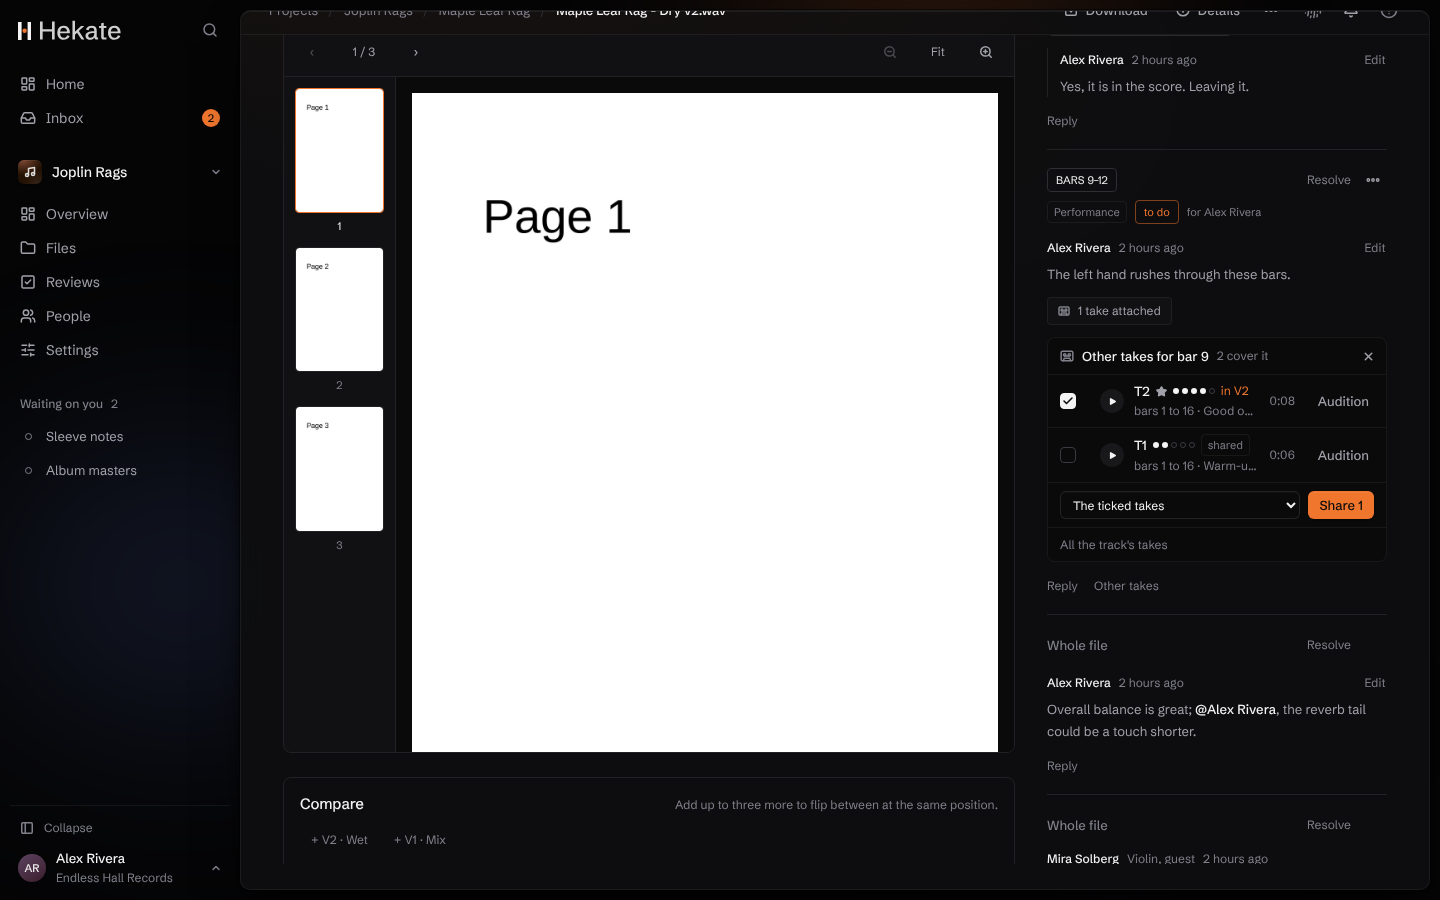
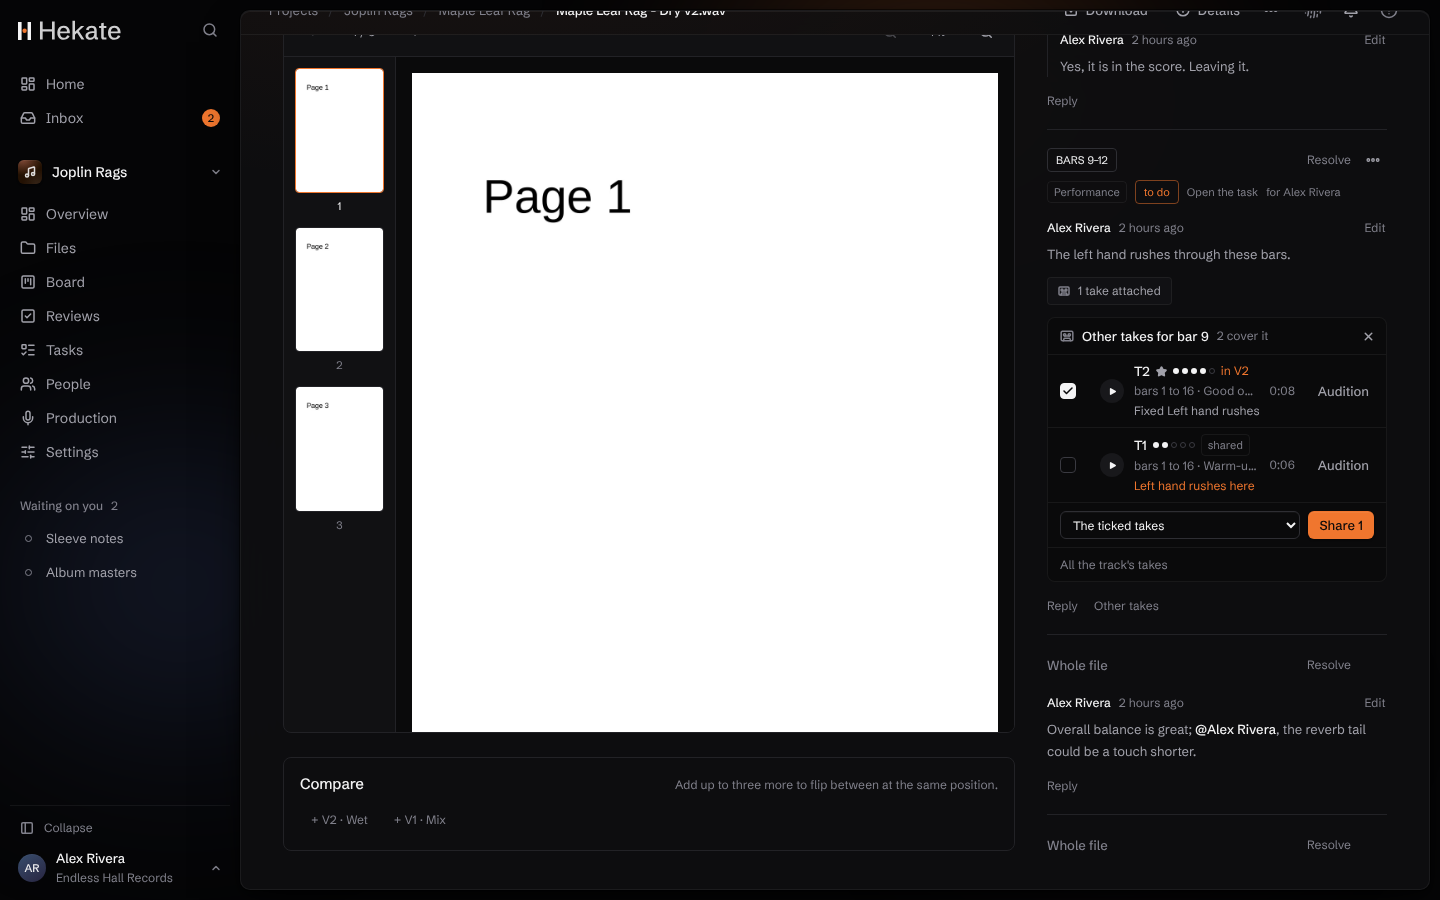
feat(web): the takes for a bar say which the score marks fixed it with, and where it went wrong (#52) (#375)
* feat(web): the takes for a bar say which the score marks fixed it with, and where it went wrong (#52)

Claude-Session: https://claude.ai/code/session_017vaSqC7EeCsBSrR21gRgK1

* fix(server): the takes for a bar follow the score marks for those who see them (#52)

The API's ?bar= answer now matches the web app's for roles with
view_production, and the other-takes panel waits for the marks before
ordering the takes.

Claude-Session: https://claude.ai/code/session_017vaSqC7EeCsBSrR21gRgK1

---------

diff --git a/apps/web/src/components/takes.tsx b/apps/web/src/components/takes.tsx
@@ -9,13 +9,15 @@ import {
   edlRates,
   formatDuration,
   gapsLabel,
+  marksAtBar,
   parseClock,
   type SharedTake,
   TAKE_RATING_MAX,
+  type TakeAtBar,
   type TakeChange,
   type TakeRow,
   takeProblem,
-  takesCovering,
+  takesForBar,
 } from "@hekate/shared";
 import { useQuery } from "@tanstack/react-query";
 import { Link } from "@tanstack/react-router";
@@ -33,6 +35,7 @@ import { formatLoop } from "~/lib/loop";
 import {
   editDecisionsQuery,
   projectSessionsQuery,
+  scoreMarksQuery,
   type Track,
   trackTakesQuery,
   useProjectCan,
@@ -94,6 +97,12 @@ export function TakeManager({ track }: { track: Track }) {
   // Adding takes uploads their files first, which needs the project's upload permission too.
   const canAdd = canEdit && can("upload");
   const { data: takes, error } = useQuery(trackTakesQuery(track.id));
+  // What the score marks say of each take at a bar (#52): which fixed it, which went wrong.
+  const { data: marking } = useQuery({
+    ...scoreMarksQuery(track.id),
+    enabled: can("view_production"),
+    retry: false,
+  });
   const { add, change, remove } = useTakeMutations(track.id);
   const [filter, setFilter] = useState<"all" | "best" | "used">("all");
   const [bar, setBar] = useState("");
@@ -162,7 +171,7 @@ export function TakeManager({ track }: { track: Track }) {
   const wanted = Number.parseInt(bar, 10);
   const asked = bar.trim() !== "" && Number.isInteger(wanted) && wanted >= 0;
   const ordered = asked
-    ? takesCovering(takes, wanted)
+    ? takesForBar(takes, wanted, marksAtBar(marking?.marks ?? [], wanted))
     : [...takes].sort(
         (a, b) =>
           (a.barFrom ?? Number.POSITIVE_INFINITY) - (b.barFrom ?? Number.POSITIVE_INFINITY) ||
@@ -813,7 +822,15 @@ export function OtherTakes({
   const { data: takes, error } = useQuery(trackTakesQuery(trackId));
   // Which of them the latest version's edit decision list uses here (#56).
   const { data: decisions } = useQuery(editDecisionsQuery(trackId));
-  const list = takes ? takesCovering(takes, bar) : [];
+  // What the producer's score marks say of them at this bar (#52): a role that does not see
+  // the production tools is refused them, and sees the takes without. The order waits for
+  // them, so rows do not move once they arrive.
+  const { data: marking, isPending: marksPending } = useQuery({
+    ...scoreMarksQuery(trackId),
+    retry: false,
+  });
+  const notes = marksAtBar(marking?.marks ?? [], bar);
+  const list = takes ? takesForBar(takes, bar, notes) : [];
   const [mode, setMode] = useState<"ticked" | "all" | "except">("ticked");
   /** The take being auditioned, to say so and to press its button. */
   const [auditioning, setAuditioning] = useState<string | null>(null);
@@ -853,7 +870,9 @@ export function OtherTakes({
       <div className="flex items-center gap-2 border-b border-line py-1 pr-1 pl-3">
         <Icon name="take" size={14} className="text-ink-3" />
         <span className="text-[13px] font-medium text-ink">Other takes for bar {bar}</span>
-        {takes && <span className="text-[12px] text-ink-3">{list.length} cover it</span>}
+        {takes && !marksPending && (
+          <span className="text-[12px] text-ink-3">{list.length} cover it</span>
+        )}
         <Button
           variant="ghost"
           size="iconSm"
@@ -866,7 +885,7 @@ export function OtherTakes({
       </div>
       {error ? (
         <p className="m-0 px-3 py-2 text-[13px] text-signal">{error.message}</p>
-      ) : !takes ? (
+      ) : !takes || marksPending ? (
         <p className="m-0 px-3 py-2 text-[13px] text-ink-3">Loading</p>
       ) : list.length === 0 ? (
         <p className="m-0 px-3 py-2 text-[13px] text-ink-3">
@@ -901,6 +920,7 @@ export function OtherTakes({
                       take={t}
                       shared={share?.shared.includes(t.id)}
                       usedIn={usedAtBar(decisions, t.id, bar)}
+                      note={notes.get(t.number)}
                     />
                   </Link>
                 ) : (
@@ -909,6 +929,7 @@ export function OtherTakes({
                       take={t}
                       shared={share?.shared.includes(t.id)}
                       usedIn={usedAtBar(decisions, t.id, bar)}
+                      note={notes.get(t.number)}
                     />
                   </span>
                 )}
@@ -991,11 +1012,14 @@ function OtherTake({
   take,
   shared = false,
   usedIn = null,
+  note,
 }: {
   take: SharedTake;
   shared?: boolean;
   /** The version whose edit decision list uses it at this bar ("V2"), or null (#56). */
   usedIn?: string | null;
+  /** What the score marks say of it at this bar (#52). */
+  note?: TakeAtBar;
 }) {
   return (
     <>
@@ -1021,6 +1045,19 @@ function OtherTake({
         <span className="block truncate text-[12px] text-ink-3">
           {[barsLabel(take), take.label, take.notes].filter(Boolean).join(" · ")}
         </span>
+        {note && (note.fixed.length > 0 || note.troubled.length > 0) && (
+          <span className="block truncate text-[12px]">
+            {note.fixed.length > 0 && (
+              <span className="text-ink-2">Fixed {note.fixed.join(", ")}</span>
+            )}
+            {note.fixed.length > 0 && note.troubled.length > 0 && (
+              <span className="text-ink-3"> · </span>
+            )}
+            {note.troubled.length > 0 && (
+              <span className="text-signal">{note.troubled.join(", ")} here</span>
+            )}
+          </span>
+        )}
       </span>
       {take.file?.duration != null && (
         <span className="tabular text-[12px] text-ink-3">{formatDuration(take.file.duration)}</span>

diff --git a/packages/shared/src/score-marks.ts b/packages/shared/src/score-marks.ts
@@ -294,3 +294,66 @@ export function typedNumber(typed: string, take = false): number | null | undefi
   if (n === undefined) return undefined;
   return take && Number(n) < 1 ? undefined : Number(n);
 }
+
+/** What the score marks say of a take at one bar (#52, #46): what it fixed, what went wrong. */
+export interface TakeAtBar {
+  fixed: string[];
+  troubled: string[];
+}
+
+/**
+ * The issues marked at a bar, by take: the takes that fixed one ("take 7 fixed bar 72") and
+ * those it occurred in. An issue covers its bars, or the one bar it was marked at.
+ */
+export function marksAtBar(
+  marks: Pick<ScoreMark, "kind" | "barFrom" | "barTo" | "takes" | "fixedBy" | "text">[],
+  bar: number,
+): Map<number, TakeAtBar> {
+  const notes = new Map<number, TakeAtBar>();
+  const of = (take: number) => {
+    let note = notes.get(take);
+    if (!note) {
+      note = { fixed: [], troubled: [] };
+      notes.set(take, note);
+    }
+    return note;
+  };
+  for (const m of marks) {
+    if (m.kind !== "issue" || m.barFrom == null) continue;
+    if (bar < m.barFrom || bar > (m.barTo ?? m.barFrom)) continue;
+    const what = m.text || "an issue";
+    if (m.fixedBy != null) of(m.fixedBy).fixed.push(what);
+    for (const take of m.takes) if (take !== m.fixedBy) of(take).troubled.push(what);
+  }
+  return notes;
+}
+
+/**
+ * The takes to offer for a bar: those whose bars cover it, and those the score marks say fixed
+ * it, whatever bars they were given. Takes that fixed it come first, then starred, then by
+ * rating, then in order.
+ */
+export function takesForBar<
+  T extends {
+    number: number;
+    starred: boolean;
+    rating: number;
+    barFrom: number | null;
+    barTo: number | null;
+  },
+>(all: T[], bar: number, notes: Map<number, TakeAtBar>): T[] {
+  const covering = (t: T) => {
+    if (t.barFrom == null) return false;
+    return t.barFrom <= bar && bar <= (t.barTo ?? t.barFrom);
+  };
+  const fixed = (t: T) => (notes.get(t.number)?.fixed.length ?? 0) > 0;
+  return all
+    .filter((t) => covering(t) || fixed(t))
+    .sort(
+      (a, b) =>
+        Number(fixed(b)) - Number(fixed(a)) ||
+        Number(b.starred) - Number(a.starred) ||
+        b.rating - a.rating ||
+        a.number - b.number,
+    );
+}

diff --git a/packages/shared/src/score-marks.test.ts b/packages/shared/src/score-marks.test.ts
@@ -2,10 +2,12 @@ import { describe, expect, it } from "vitest";
 import {
   editLabel,
   editPlot,
+  marksAtBar,
   readingOrder,
   scoreMarkInput,
   scoreMarksCsv,
   takeList,
+  takesForBar,
   typedNumber,
 } from "./score-marks.ts";
 
@@ -188,5 +190,55 @@ describe("typedNumber", () => {
     expect(typedNumber("T0", true)).toBeUndefined();
     expect(typedNumber("T3")).toBeUndefined();
     expect(typedNumber("0")).toBe(0);
+  });
+});
+
+describe("marksAtBar and takesForBar", () => {
+  const issue = (
+    barFrom: number,
+    barTo: number | null,
+    takes: number[],
+    fixedBy: number | null,
+    text: string,
+  ) => ({
+    kind: "issue" as const,
+    barFrom,
+    barTo,
+    takes,
+    fixedBy,
+    text,
+  });
+  const marks = [
+    issue(70, 74, [3, 5], 7, "Pedal noise"),
+    issue(72, null, [5], null, "LH F sharp"),
+    issue(90, 92, [3], 9, "Tempo"),
+    { ...issue(72, null, [], 4, "Not an issue"), kind: "note" as const },
+  ];
+  const take = (
+    number: number,
+    barFrom: number | null,
+    barTo: number | null,
+    starred = false,
+    rating = 0,
+  ) => ({
+    number,
+    barFrom,
+    barTo,
+    starred,
+    rating,
+  });
+
+  it("says which takes fixed a bar and which went wrong there", () => {
+    const notes = marksAtBar(marks, 72);
+    expect(notes.get(7)).toEqual({ fixed: ["Pedal noise"], troubled: [] });
+    expect(notes.get(5)).toEqual({ fixed: [], troubled: ["Pedal noise", "LH F sharp"] });
+    expect(notes.get(3)).toEqual({ fixed: [], troubled: ["Pedal noise"] });
+    expect(notes.has(9)).toBe(false);
+    expect(notes.has(4)).toBe(false);
+  });
+
+  it("offers the take that fixed a bar first, even when its bars were never set", () => {
+    const takes = [take(3, 1, 80, true, 5), take(5, 60, 80), take(7, null, null), take(8, 85, 99)];
+    expect(takesForBar(takes, 72, marksAtBar(marks, 72)).map((t) => t.number)).toEqual([7, 3, 5]);
   });
 });

diff --git a/apps/server/src/routes/takes.ts b/apps/server/src/routes/takes.ts
@@ -3,6 +3,8 @@ import {
   addTakesInput,
   canMoveTake,
   fieldChanges,
+  marksAtBar,
+  type ScoreMarkKind,
   type SharedTake,
   shareTakesInput,
   type TakeHistoryEntry,
@@ -13,6 +15,7 @@ import {
   takeLifecycleNames,
   takeProblem,
   takesCovering,
+  takesForBar,
 } from "@hekate/shared";
 import { zValidator } from "@hono/zod-validator";
 import { and, asc, eq, inArray, max } from "drizzle-orm";
@@ -139,10 +142,21 @@ export const trackTakeRoutes = (db: Database) =>
       async (c) => {
         const organisationId = c.var.organisationId;
         const track = await trackOf(db, organisationId, c.req.valid("param").id);
-        await can(db, actorOf(c.var), "view_takes", track.projectId);
+        const access = await can(db, actorOf(c.var), "view_takes", track.projectId);
         const all = await takesOf(db, organisationId, track.id);
         const { bar } = c.req.valid("query");
-        return c.json({ takes: bar === undefined ? all : takesCovering(all, bar) });
+        if (bar === undefined) return c.json({ takes: all });
+        // The score marks (#52) add the takes that fixed the bar, for those who may see them;
+        // without them, the takes whose bars cover it.
+        if (!access.permissions.has("view_production")) {
+          return c.json({ takes: takesCovering(all, bar) });
+        }
+        const rows = await db
+          .select()
+          .from(schema.scoreMarks)
+          .where(inOrg(schema.scoreMarks, organisationId, eq(schema.scoreMarks.trackId, track.id)));
+        const marks = rows.map((m) => ({ ...m, kind: m.kind as ScoreMarkKind }));
+        return c.json({ takes: takesForBar(all, bar, marksAtBar(marks, bar)) });
       },
     )
     .post("/:id/takes", idParam, zValidator("json", addTakesInput), async (c) => {

diff --git a/apps/server/src/app.test.ts b/apps/server/src/app.test.ts
@@ -8907,6 +8907,31 @@ describe.runIf(url)("api", () => {
           ).json()) as Listed;
           expect(none.takes).toEqual([]);
 
+          // A score mark (#52) saying take 1 fixed bar 95 offers it there, first, to those who
+          // see the production tools; a reviewer, who does not, still sees the takes by bars.
+          await db.insert(schema.scoreMarks).values({
+            organisationId: s.organisationId,
+            trackId: s.trackId,
+            kind: "issue",
+            page: 1,
+            x: 0.5,
+            y: 0.5,
+            barFrom: 94,
+            barTo: 96,
+            text: "Late entry",
+            takes: [2],
+            fixedBy: 1,
+          });
+          const atBar = async (bar: number, cookie: string) =>
+            (
+              (await (
+                await getAs(`/api/tracks/${s.trackId}/takes?bar=${bar}`, cookie)
+              ).json()) as Listed
+            ).takes.map((t) => t.number);
+          expect(await atBar(95, s.engineer)).toEqual([1]);
+          expect(await atBar(95, s.composer)).toEqual([]);
+          expect(await atBar(72, s.engineer)).toEqual([3, 2, 1]);
+
           // The file page says which take a file is.
           const details = (await (await getAs(`/api/files/${t3}/details`, s.composer)).json()) as {
             usedIn: { take: { number: number; track: string } | null };

diff --git a/apps/e2e/tests/screens.spec.ts b/apps/e2e/tests/screens.spec.ts
@@ -1454,6 +1454,9 @@ test("file-comment-other-takes", async ({ page }) => {
   const panel = page.getByRole("region", { name: "Other takes for bar 9" });
   await expect(panel.getByRole("listitem")).toHaveCount(2);
   await expect(panel).toContainText("Good opening");
+  // The score marks say take 2 fixed the left hand there, and take 1 is where it rushed (#52).
+  await expect(panel.getByRole("listitem").first()).toContainText("Fixed Left hand rushes");
+  await expect(panel).toContainText("Left hand rushes here");
   // V2's edit decision list uses take 2 at bar 9 (#56).
   await expect(panel.getByRole("listitem").filter({ hasText: "in V2" })).toHaveCount(1);
   // Those who triage choose which to share (#133); the one already shared says so.

diff --git a/apps/e2e/tests/seed.setup.ts b/apps/e2e/tests/seed.setup.ts
@@ -416,6 +416,18 @@ setup("seed", async ({ page, browser }) => {
       fixedBy: 3,
     },
     { kind: "wrong-note", page: 1, x: 0.7, y: 0.55, barFrom: 9, text: "LH F sharp" },
+    {
+      kind: "issue",
+      page: 1,
+      x: 0.45,
+      y: 0.5,
+      barFrom: 9,
+      barTo: 12,
+      text: "Left hand rushes",
+      categoryId: marking.categories.find((c) => c.name === "Ensemble")?.id,
+      takes: [1],
+      fixedBy: 2,
+    },
     { kind: "dynamic", page: 1, x: 0.85, y: 0.7, barFrom: 13, text: "mp, not mf" },
     {
       kind: "note",

diff --git a/docs/decisions.md b/docs/decisions.md
@@ -890,3 +890,11 @@ The recorder's numbers and timecode wait for the session tools; local-first writ
 - **Reading the score.** Single, two-up and continuous layouts; paper, invert, sepia, amber, cyan and grey displays for a dark room; the arrow keys turn the page, and full stop steps through the edit points in reading order.
 - **Beside it.** The inspector for the chosen mark (its bars, words, category, the takes it occurred in, the take that fixed it, resolved; an edit point's takes), the edit plot check with the chain it follows, and the marks on the pages shown.
 - **Exports.** The marks as CSV now; the annotated score PDF, going to a bar by the score's printed numbers, and swapping the score follow.
+
+## 159. Score marks answer "other options for this bar?"
+
+#52, third part: "marks feed take coverage (#46)".
+
+- **Which take fixed it.** An issue marked on the score covers its bars, or the bar it was marked at. Asked for the takes of a bar (the thread's Other takes, or the track's takes filtered by bar), the take an issue there was fixed by comes first and says what it fixed ("Fixed Left hand rushes"). It is offered even when its own bars were never set, since the producer's mark says it holds the bar.
+- **Where it went wrong.** The takes an issue there occurred in say so, in the signal colour ("Left hand rushes here"), so nobody picks the one the producer marked down.
+- **Otherwise as before.** Starred takes, then by rating, then in order. A role that does not see the production tools sees the takes as before, without what the marks say.
